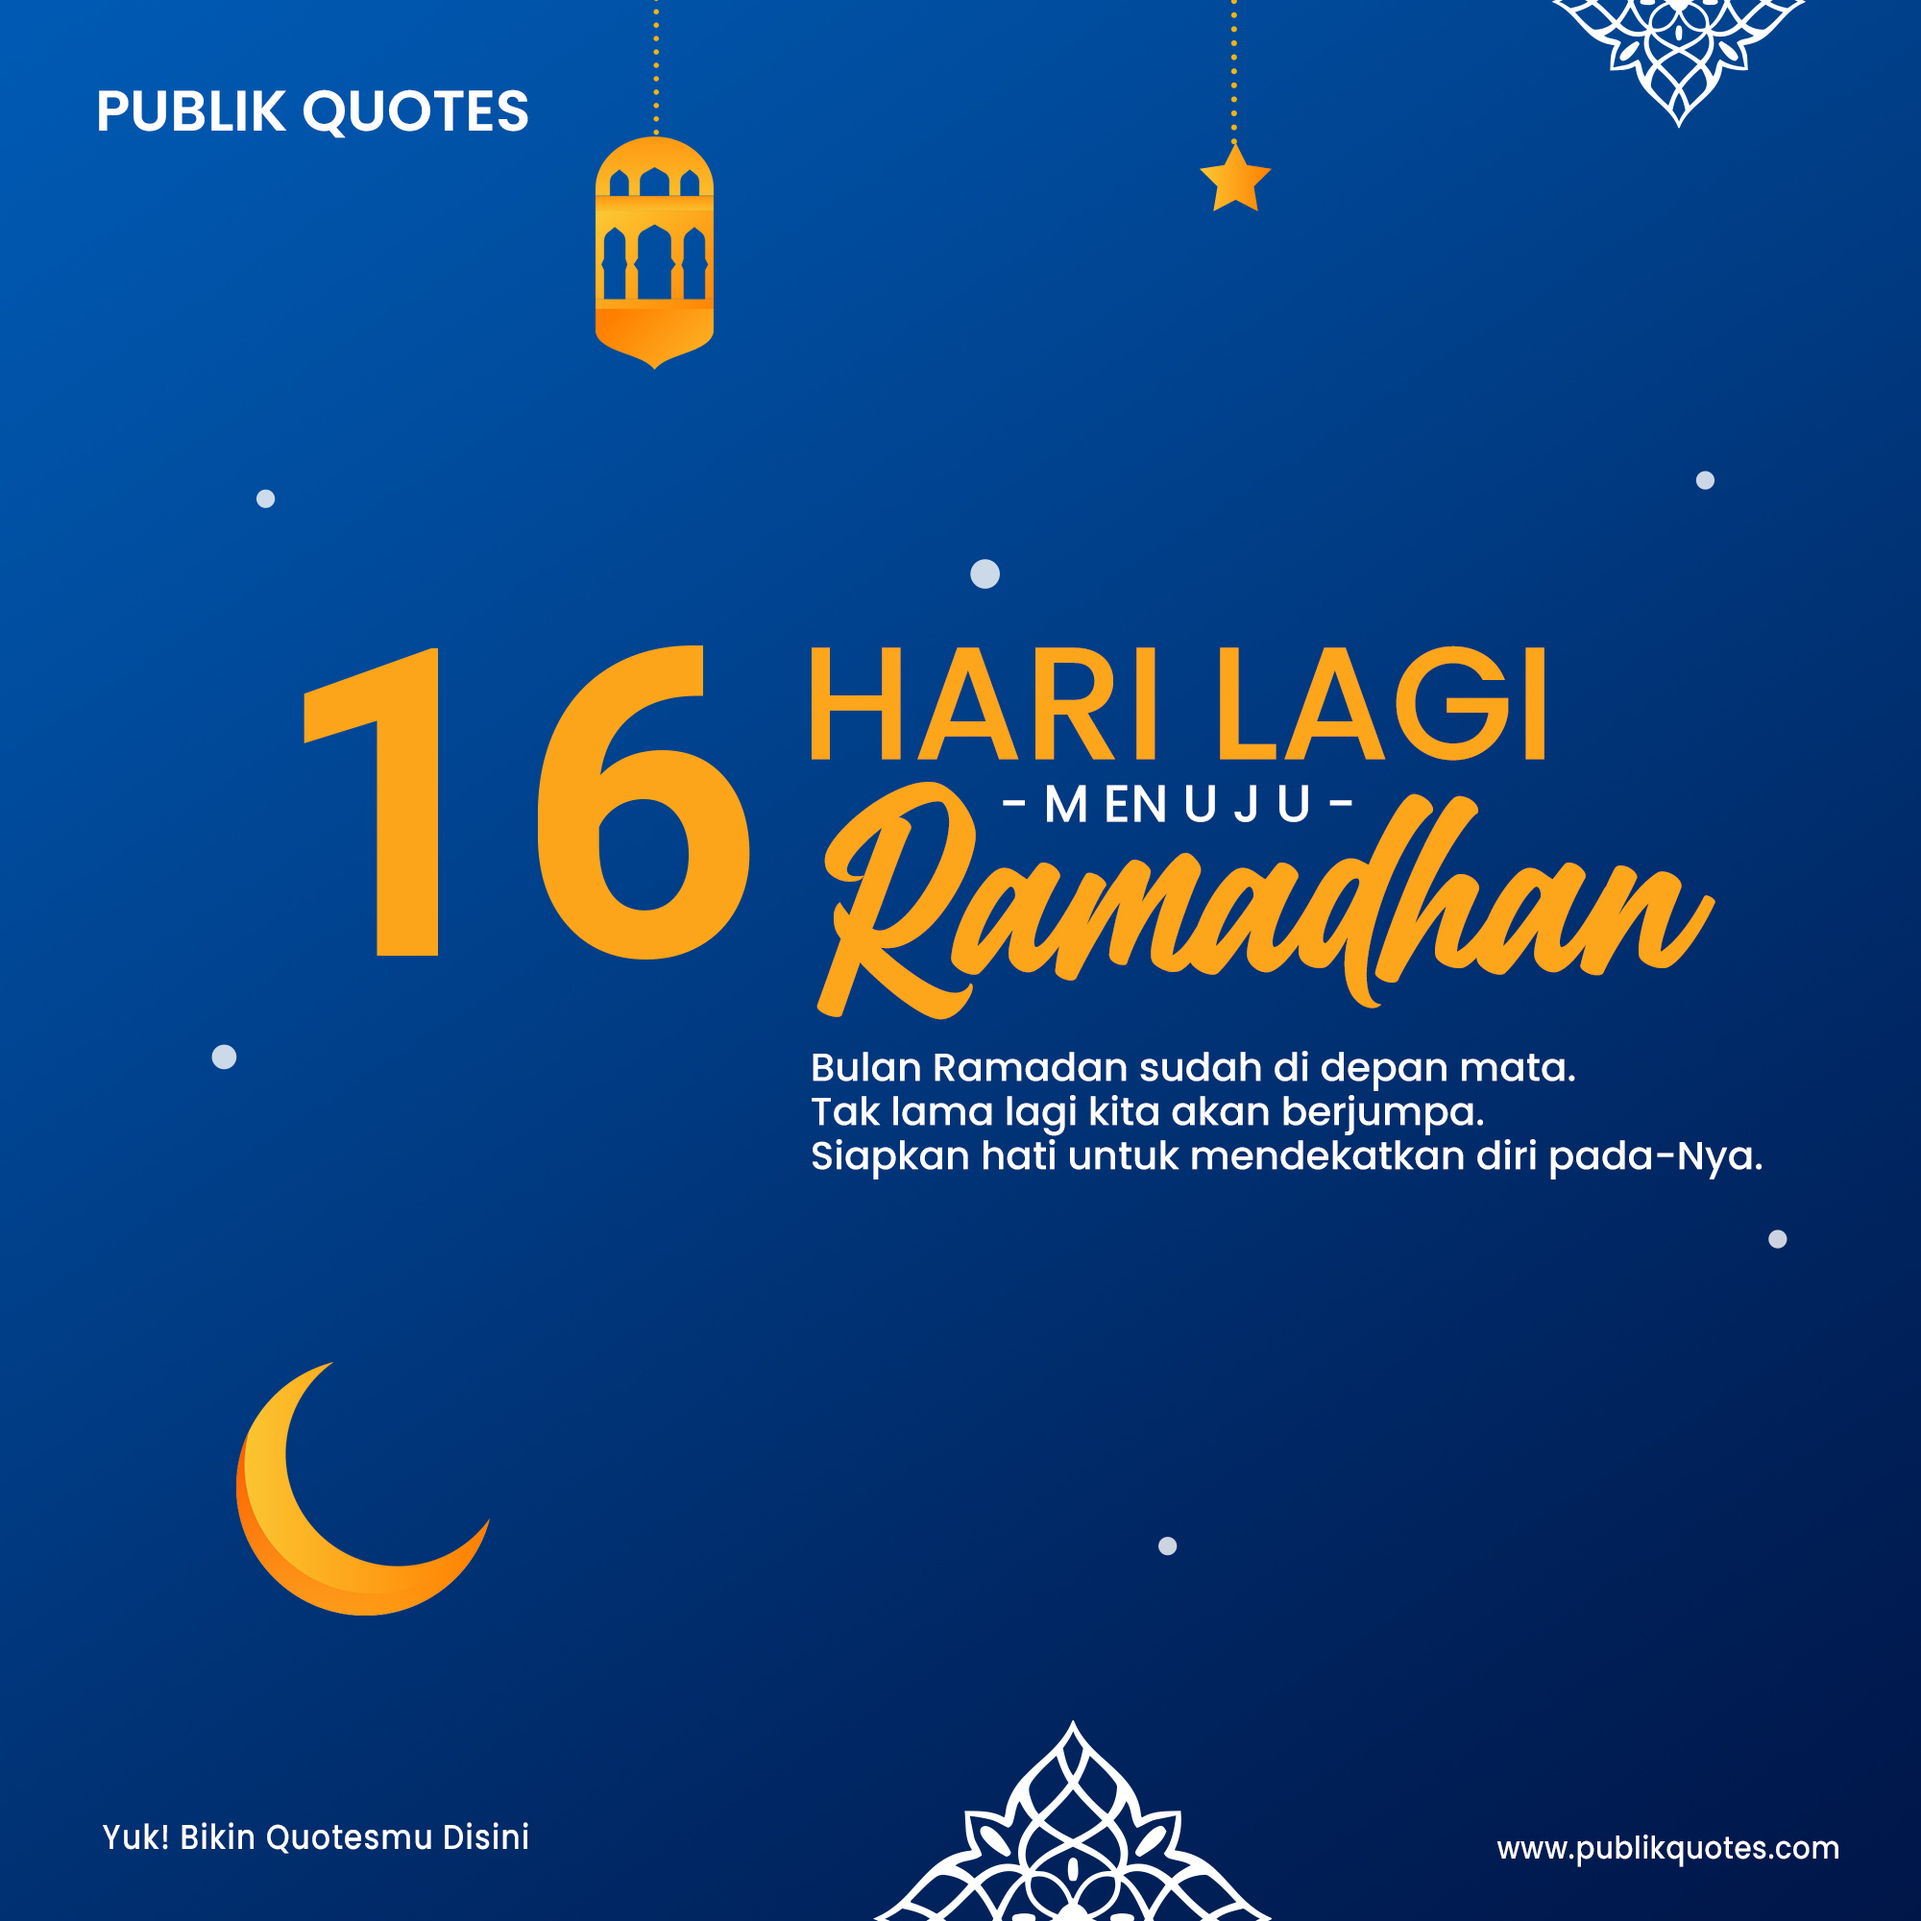
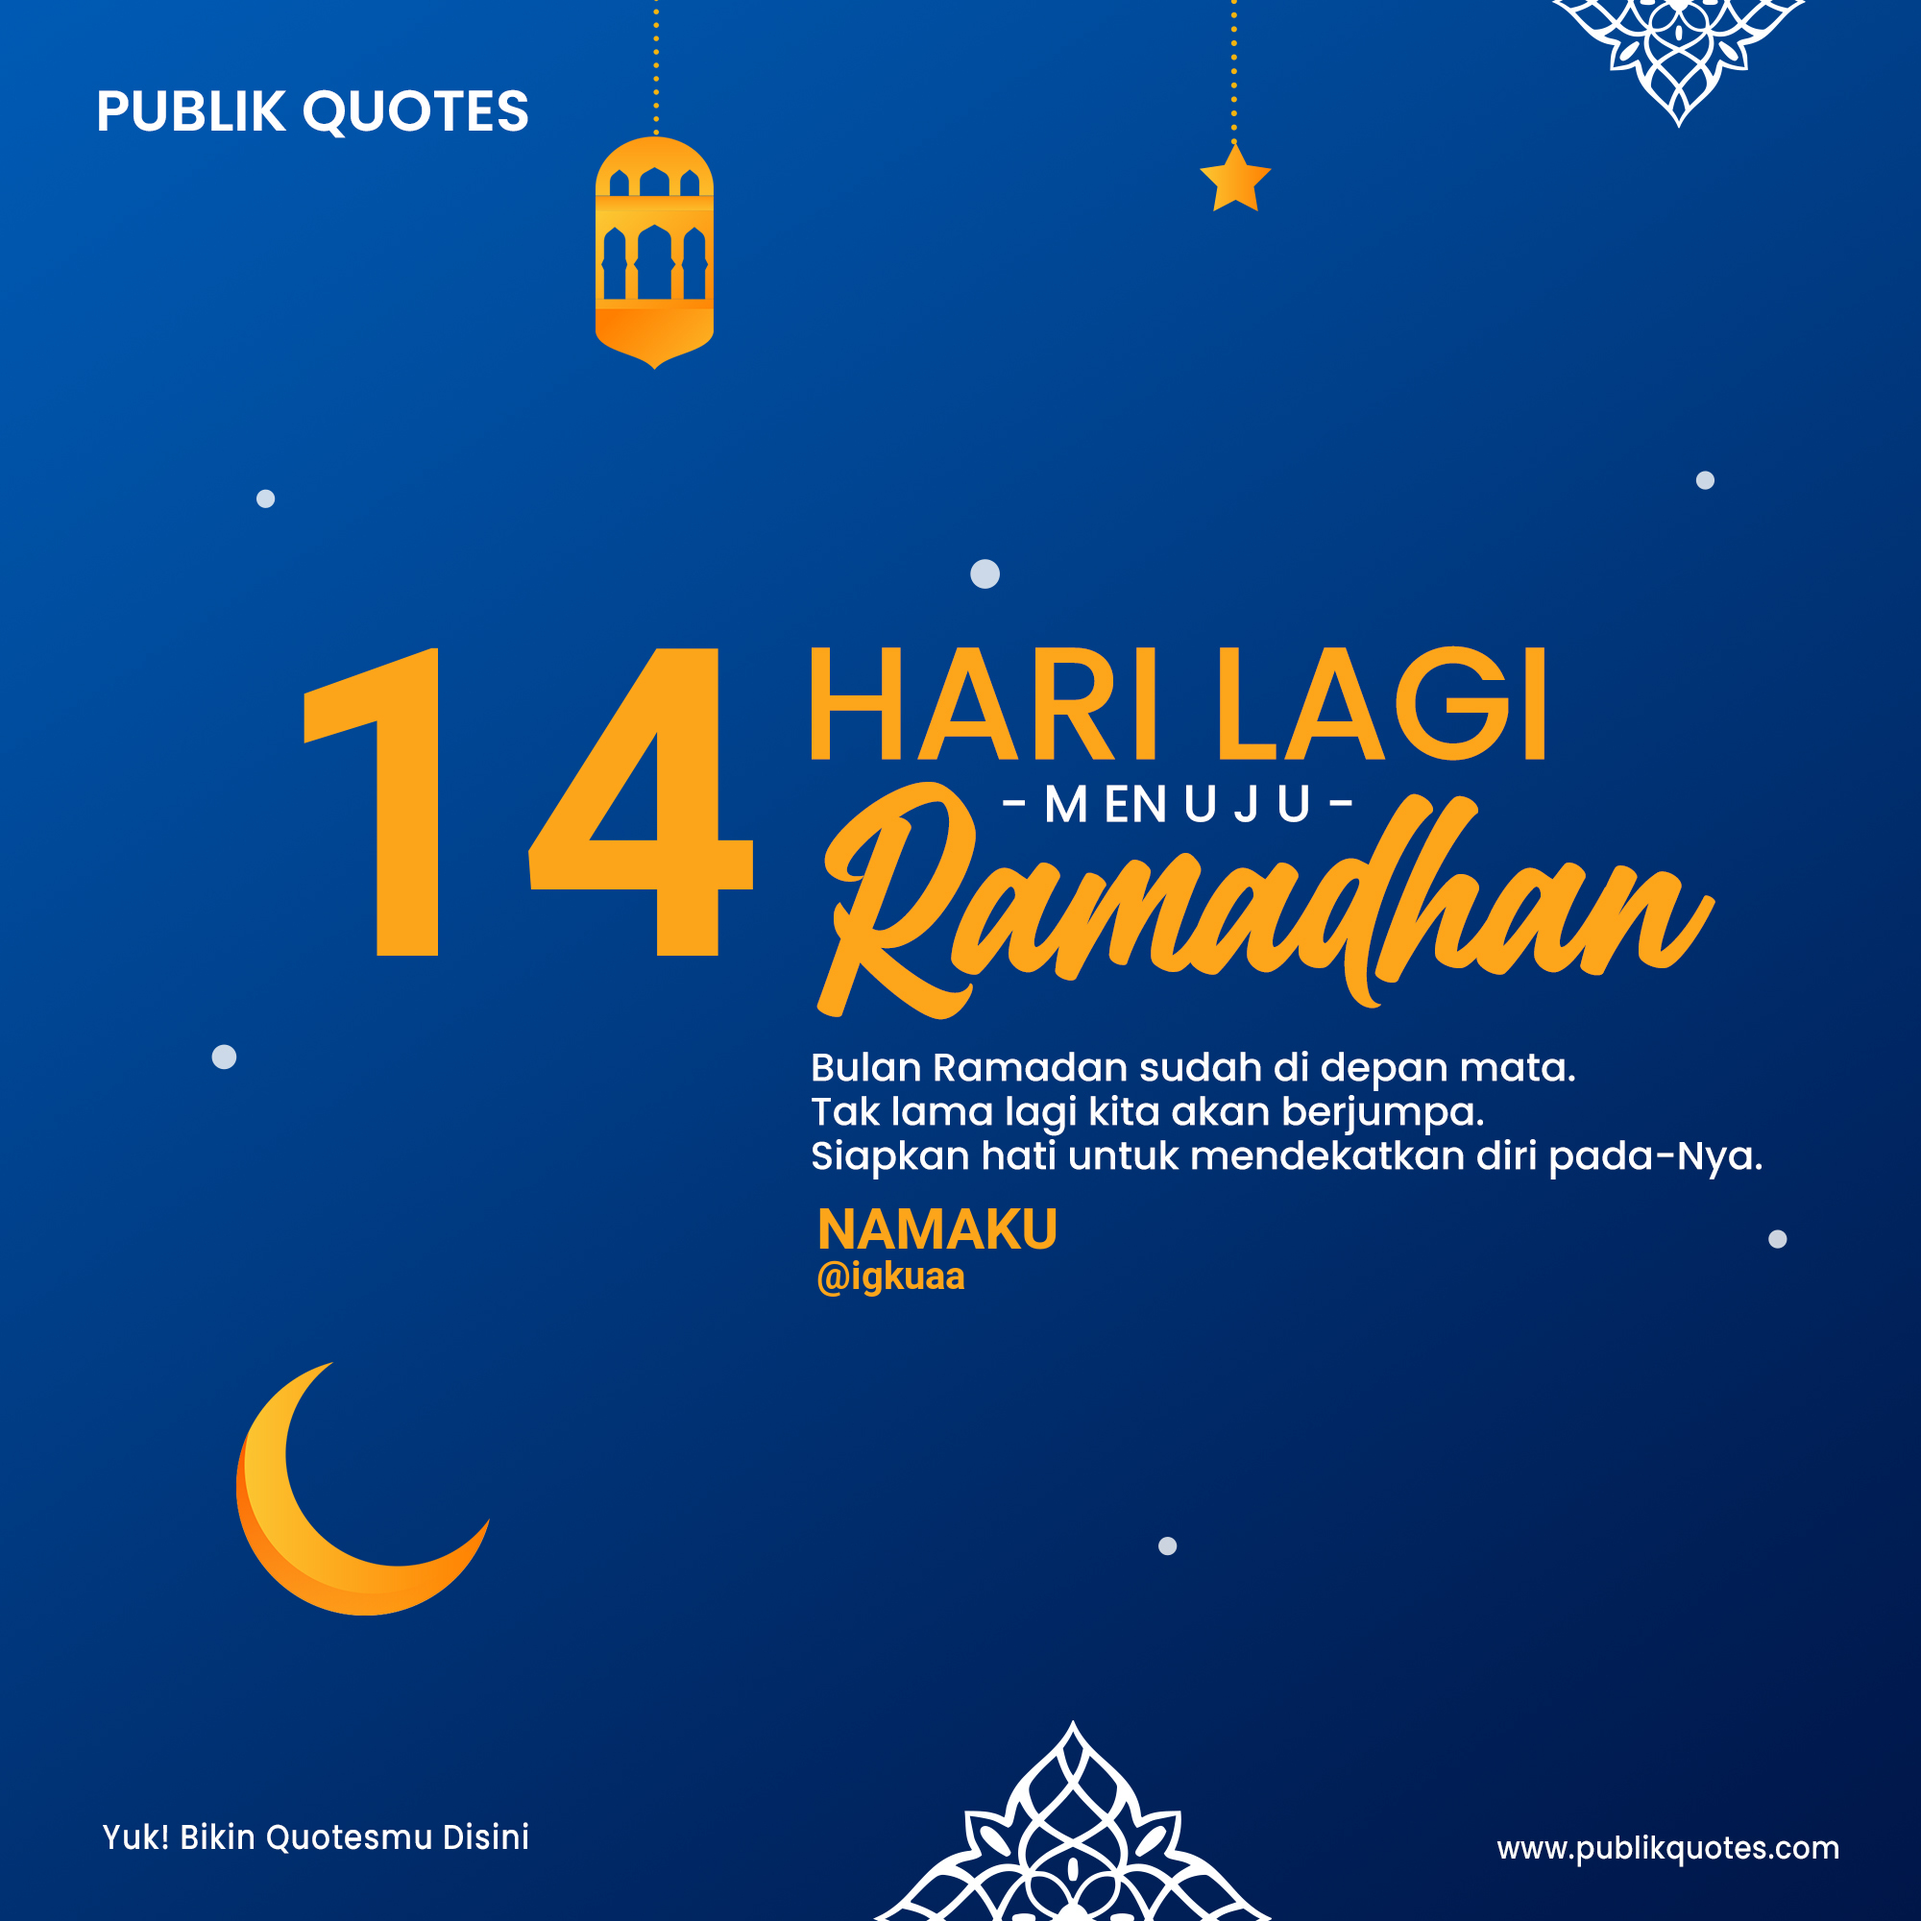
update x

Changed region(s): [[0.279, 0.341, 0.403, 0.496], [0.403, 0.62, 0.558, 0.682]]

diff --git a/plugins/revisi-quotes.js b/plugins/revisi-quotes.js
@@ -1,0 +1,117 @@
+let PhoneNumber = require('awesome-phonenumber')
+let util = require('util')
+let path = require('path')
+let { spawn } = require('child_process')
+let fontPath = 'src/font/Roboto-Light.ttf'
+let namanya = 'src/font/Roboto-Bold.ttf'
+let handler = async (m, { conn, args, text, sendMessage, usedPrefix }) => {
+  let who = m.mentionedJid && m.mentionedJid[0] ? m.mentionedJid[0] : m.fromMe ? conn.user.jid : m.sender
+  let xx = global.DATABASE.data.users[who]
+  let username = conn.getName(who)
+  let [a,...teks] = text.split('#')
+  let aaa = (teks ||[]).join('#')
+  let outputPath = 'tmp/quotes.jpg'
+  let d = new Date
+  let tgl = d.toLocaleDateString('id-Id')
+  let hari = d.toLocaleDateString('id-Id', { weekday: 'long' })
+  if (!aaa) return conn.reply(m.chat, `⚠ Quotesnya mana?`, m)
+
+  if (xx.jk =='pr')  
+      {inputPath ='src/kertas/quotespr.jpg'}
+  else if (xx.jk =='lk')
+      {inputPath ='src/kertas/quotes.jpg'}
+
+  spawn('convert', [
+    inputPath,
+    '-font',
+    namanya,
+    '-size',
+    '100x100',
+    '-pointsize',
+    '22',
+    '-interline-spacing',
+    '1',
+    '-annotate',
+    '+26+745',
+    hari,
+
+    '-font',
+    fontPath,
+    '-size',
+    '100x150',
+    '-pointsize',
+    '18',
+    '-interline-spacing',
+    '1',
+    '-annotate',
+    '+26+766',
+    tgl ,
+    '-font',
+    fontPath,
+    '-size',
+    '4x4',
+    '-pointsize',
+    '20',
+    '-interline-spacing',
+    '1.5',
+    '-annotate',
+    '+150+340',
+    aaa,
+    '-font',
+    namanya,
+    '-size',
+    '4x4',
+    '-pointsize',
+    '23',
+    '-interline-spacing',
+    '-7.5',
+    '-annotate',
+    '+207+610',
+    xx.name.split` `.map(word => word[0].toUpperCase() + word.slice(1).toLowerCase()).join` `,
+    '-font',
+    fontPath,
+    '-size',
+    '4x4',
+    '-pointsize',
+    '12',
+    '-interline-spacing',
+    '-7.5',
+    '-annotate',
+    '+207+627',
+    '@'+xx.ig,
+    outputPath
+  ])
+  .on('error', e => conn.reply(m.chat, util.format(e), m))
+  .on('exit', () => {
+  conn.sendFile(m.chat, outputPath, 'quotes.jpg', `Quotes by ${xx.name.split` `.map(word => word[0].toUpperCase() + word.slice(1).toLowerCase()).join` `} 
+📑 @${xx.ig}
+ 
+${kuot(global.capt)}
+
+Jangan lupa follow
+🏷 @publik.quotes
+
+${kuot(global.tagar)}`, m)   
+  })
+}
+
+handler.owner = true
+handler.command = /^(revisi|r|buatin|untuk|for|)$/i
+module.exports = handler
+
+function kuot(list) {
+  return list[Math.floor(list.length * Math.random())]
+}
+global.capt = [
+
+"Yuk bikin quotesmu juga, gak sampai 10 detik langsung jadi gambar loh, kalau minat langsung DM aja ya :)",
+"Bikin quotes kayak gini gak sampai 10 detik langsung jadi loh, yuk langsum DM aja ku beri tahu caranya",
+"Taukah kamu, sekarang di whatsapp sudah bisa bikin quotes versi gambar, Minat? DM :D",
+"Bikin quotes via whatsapp, untuk info dan caranya silahkan DM yah!"
+]
+global.tagar = [
+ "#quotes #bucin #publikquotes #quotesbucin #buciners #motivasi #humor #bijak #katakata #quotesvisual #kuotesku",
+ "#remaja #quotestagram #quotesindonesia #publikquotes #quotesdaily",
+ "#publikquotes #lagibucin #quoteskeren #quotesbijak #bijak",
+ "#storywa #hijrah #instagram #plus62"
+]

diff --git a/plugins/ramadhan.js b/plugins/ramadhan.js
@@ -2,10 +2,20 @@ let util = require('util')
 let path = require('path')
 let { spawn } = require('child_process')
 let namanya = 'src/font/Roboto-Bold.ttf'
-let handler = async (m, { conn }) => {
+let handler = async (m, { conn, usedPrefix }) => {
+  let usera = global.DATABASE._data.users[m.sender]
   let inputPath = 'src/kertas/puasa.jpg'
   let outputPath = 'tmp/puasa.jpg'
+  
+if (!usera.registered) throw `⚠ Anda belum terdaftar sebagai member, silahkan ketik perintah dibawah ini:
 
+*${usedPrefix}daftar Nama Lengkap#ig#lk/pr*
+
+*lk* = _Laki-laki_
+*pr* = _Perempuan_
+
+Jika *belum mengerti* silahkan ketik *#admin* untuk meminta bantuan!
+`
 let d = new Date(new Date('00:00:10 13 April 2021') - new Date)
 let text = util.format('%s', d.getUTCDate()-1)
 // conn.reply(m.chat, text, m)
@@ -25,11 +35,37 @@ spawn('convert', [
     '-annotate',
     '+280+995',
     text,
+    '-font',
+    namanya,
+    '-size',
+    '4x4',
+    '-fill',
+    '#fda51a',
+    '-pointsize',
+    '60',
+    '-interline-spacing',
+    '-7.5',
+    '-annotate',
+    '+850+1300',
+    usera.name.toUpperCase(),
+        '-font',
+    namanya,
+    '-size',
+    '4x4',
+    '-fill',
+    '#fda51a',
+    '-pointsize',
+    '40',
+    '-interline-spacing',
+    '-7.5',
+    '-annotate',
+    '+850+1342',
+    '@'+usera.ig.toLowerCase(),
     outputPath
   ])
   .on('error', e => conn.reply(m.chat, util.format(e), m))
   .on('exit', () => {
-  conn.sendFile(m.chat, outputPath, m)   
+  conn.sendFile(m.chat, outputPath,'puasa.jpg', `Hai kak ${usera.name.split` `.map(word => word[0].toUpperCase() + word.slice(1).toLowerCase()).join` `}, InsyaAllah *${text} HARI LAGI* menuju Bulan Ramadhan\n\nYuk! Share poster ini di story WhatsAppmu`, m)   
   })
 }
 handler.help = [''].map(v => v + ' <>')

diff --git a/main.js b/main.js
@@ -292,7 +292,7 @@ conn.handler = async function (m) {
     }
   }
 }
-conn.welcome = 'Hai, @user!\nSelamat datang di grup *@subject*\n\nKetik:\n_*#daftar Nama#username_ig#lk/pr*_\nAgar kamu bisa membuat Quotesmu\n\nlk = Laki-laki\npr = Perempuan\n\nContoh:\n#daftar M Asran#theazran_#lk\n\nApabila *kurang dimengerti*, silahkan ketik *#admin* dan tunggu salah satu admin akan menghubungi kamu!\n\nSemua Quotes akan diposting disini:\nInstagram.com/publik.quotes'
+conn.welcome = 'Hai, @user!\nSelamat datang di grup *@subject*\n\nKetik:\n_*#daftar Nama#username_ig#lk/pr*_\n\nlk = Laki-laki\npr = Perempuan\n\nContoh:\n#daftar M Asran#theazran_#lk\n\nApabila *kurang dimengerti*, silahkan ketik *#admin* dan tunggu salah satu admin akan menghubungi kamu!\n\nSemua Quotes akan diposting disini:\nInstagram.com/publik.quotes'
 conn.bye = 'Good bye @user!'
 conn.onAdd = async function ({ m, participants }) {
   let chat = global.DATABASE._data.chats[m.key.remoteJid]
@@ -371,7 +371,7 @@ global.dfail = (type, m, conn) => {
   let msg = {
     rowner: '',
     owner: '',
-    mods: '',
+    mods: '⚠ Perintah ini hanya bisa digunakan oleh Moderator!',
     premium: '',
     group: '⚠ Perintah ini hanya bisa digunakan dalam group!',
     private: '',

diff --git a/plugins/enable.js b/plugins/enable.js
@@ -23,20 +23,8 @@ let handler = async (m, { conn, usedPrefix, command, text, args, isROwner }) => 
       }
       global.opts['self'] = !isEnable
       break
-    case 'antilink':
-      chat.antiLink = isEnable
-      break
-    case 'autolevelup':
-      isUser = true
-      user.autolevelup = isEnable
-      break
     default:
-      return m.reply(`
-List option: welcome | delete | public | antilink | autolevelup
-Contoh:
-${usedPrefix}enable welcome
-${usedPrefix}disable welcome
-`.trim())
+      return
   }
   m.reply(`
 *${type}* berhasil di *${isEnable ? 'nyala' : 'mati'}kan* ${isAll ? 'untuk bot ini' : isUser ? '' : 'untuk chat ini'}
@@ -44,6 +32,6 @@ ${usedPrefix}disable welcome
 }
 handler.help = ['en', 'dis'].map(v => v + 'able <option>')
 handler.tags = ['group', 'owner']
-handler.command = /^((en|dis)able|(tru|fals)e|(turn)?o(n|ff))$/i
+// handler.command = /^((en|dis)able|(tru|fals)e|(turn)?o(n|ff))$/i
 
 module.exports = handler

diff --git a/plugins/owner-promote.js b/plugins/owner-promote.js
@@ -4,7 +4,7 @@ let handler = async (m, { conn, args }) => {
 }
 handler.help = ['promote','admin','^'].map(v => 'o' + v + ' @user')
 handler.tags = ['owner']
-handler.command = /^(opromote|oadmin|o\^)$/i
+handler.command = /^(opromote|oadmin|\^)$/i
 handler.owner = true
 handler.mods = false
 handler.premium = false

diff --git a/plugins/owner-demote.js b/plugins/owner-demote.js
@@ -4,7 +4,7 @@ let handler = async (m, { conn, args }) => {
 }
 handler.help = ['demote','member','v'].map(v => 'o' + v + ' @user')
 handler.tags = ['owner']
-handler.command = /^(odemote|omember|ov)$/i
+handler.command = /^(demote|member|v)$/i
 handler.owner = true
 handler.mods = false
 handler.premium = false

diff --git a/plugins/demote.js b/plugins/demote.js
@@ -4,7 +4,7 @@ let handler = async (m, { conn, args, usedPrefix }) => {
 }
 handler.help = ['demote','member'].map(v => v + ' @user')
 handler.tags = ['admin']
-handler.command = /^(demote|member|↓)$/i
+handler.command = /^(↓)$/i
 handler.owner = false
 handler.mods = false
 handler.premium = false

diff --git a/plugins/custom.js b/plugins/custom.js
@@ -3,7 +3,7 @@ let handler = async (m, { conn }) => {
 }
 handler.help = [''].map(v => v + ' <>')
 handler.tags = ['']
-handler.customPrefix = /^(assalamualaikum)$/i
+handler.customPrefix = /^assalamualaikum$/i
 handler.command = /(?:)/i
 handler.mods = false
 handler.register = true

diff --git a/plugins/set-name.js b/plugins/set-name.js
@@ -8,7 +8,7 @@ let handler = async (m, { conn, args, type }) => {
 }
 handler.help = [''].map(v => v + ' <>')
 handler.tags = ['']
-handler.command = /^ubahnama$/i
+handler.command = /^(ubahnama)$/i
 handler.owner = true
 handler.mods = false
 handler.premium = true

diff --git a/plugins/profil.js b/plugins/profil.js
@@ -29,6 +29,6 @@ Jika *belum mengerti* silahkan ketik *#admin* untuk meminta bantuan!
 `
   }
 
-handler.command = /^me|profile$/i
+handler.command = /^(me|profile)$/i
 handler.group = true
 module.exports = handler

diff --git a/plugins/join.js b/plugins/join.js
@@ -1,4 +1,5 @@
 let handler = async (m, { conn,text, subject }) => {
+	if (!text) throw 'Linknya mana?'
 conn.query({
 	json:["action", "invite", `${text.replace('https://chat.whatsapp.com/','')}`]
 })

diff --git a/plugins/owner-add.js b/plugins/owner-add.js
@@ -12,7 +12,7 @@ handler.group = true
 handler.private = false
 handler.owner = true
 handler.admin = false
-handler.botAdmin = true
+// handler.botAdmin = true
 
 handler.fail = null
 
